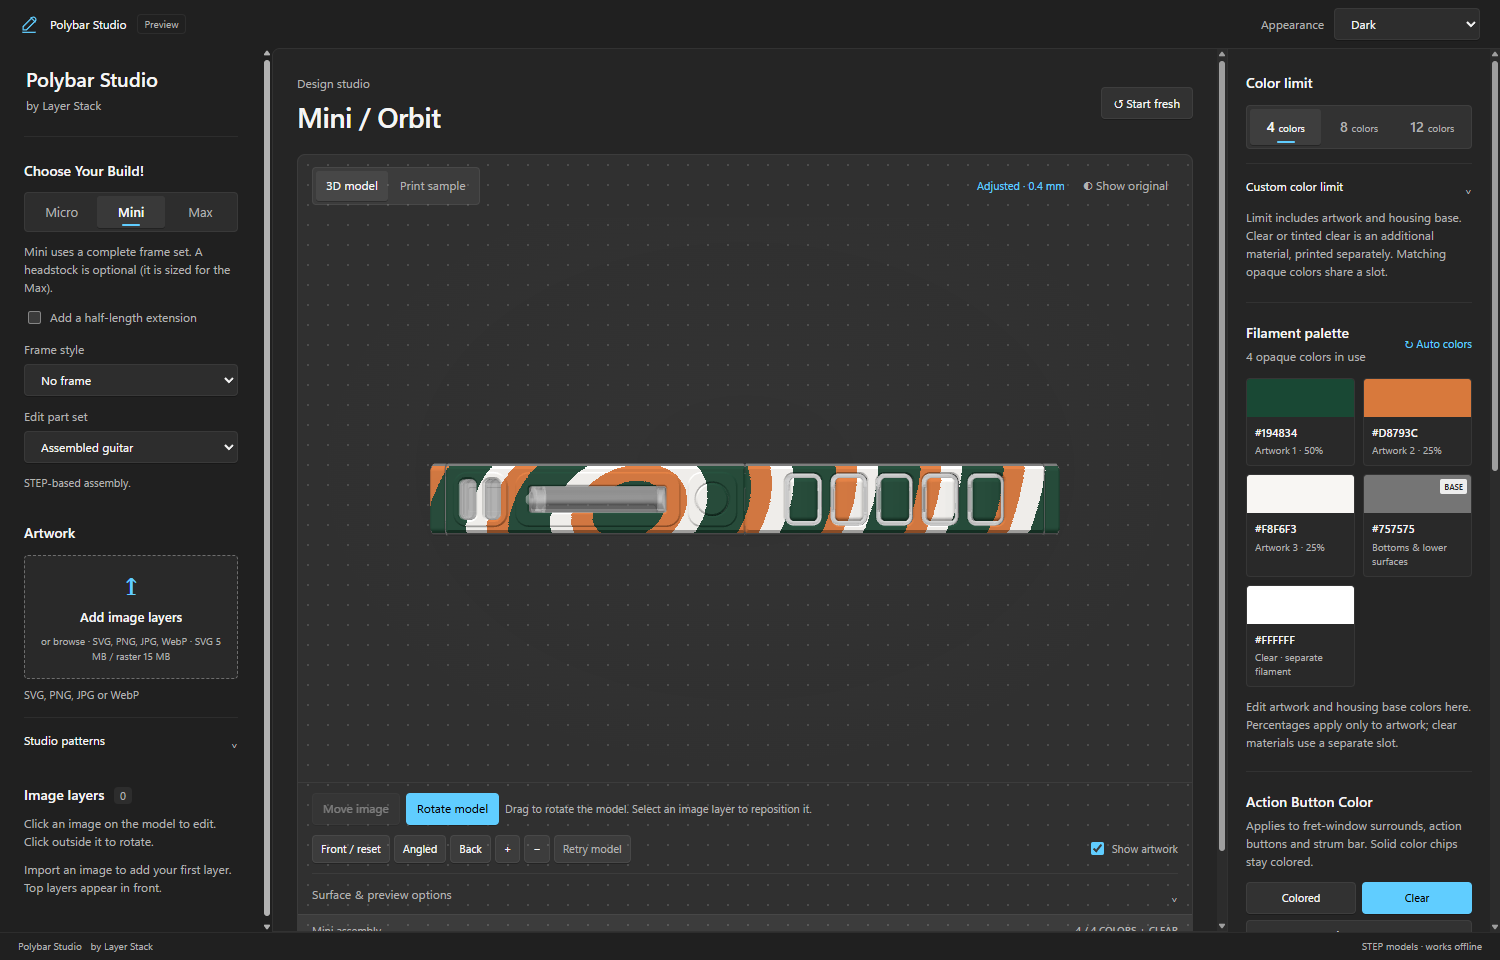
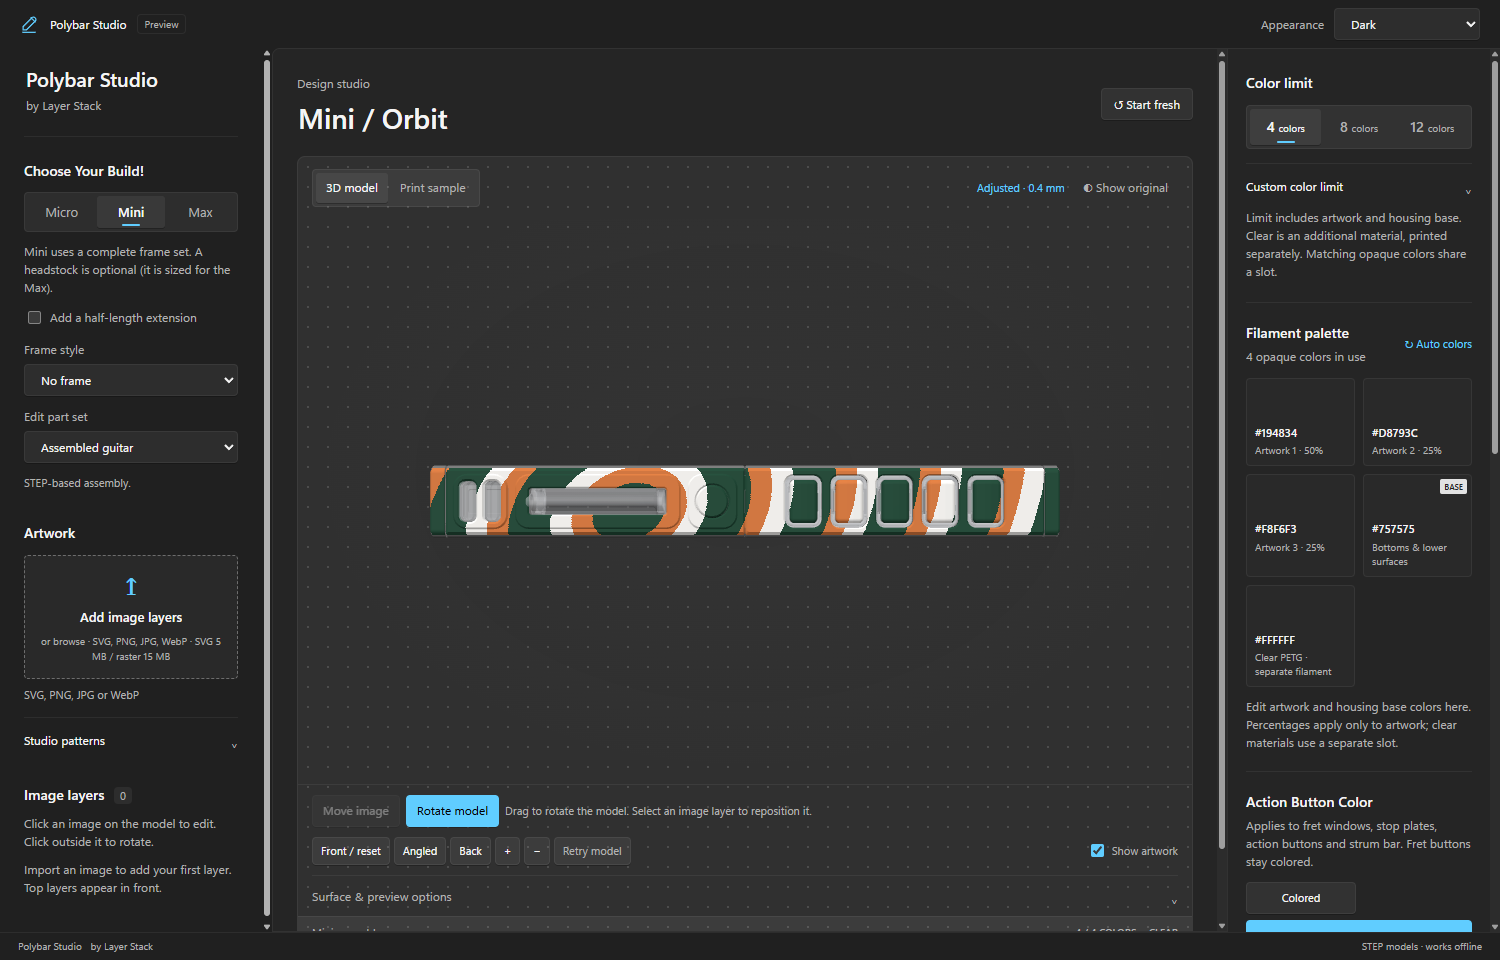
0.4.0: guide for frets, color presets, image tools, printability warning, kit parts; screenshots

diff --git a/README.md b/README.md
@@ -2,7 +2,7 @@
 
 Paint your Polybar Micro, Mini or Max, then get a print-ready Bambu Studio project for your Bambu Lab printer.
 
-[![Download for Windows](https://img.shields.io/badge/Download_for_Windows-Polybar_Studio_0.3.2-0078D4?style=for-the-badge&logo=windows)](https://github.com/3D-Printed-Controller-Systems/Polybar-Studio-Release/releases/latest/download/Polybar-Studio-Windows.exe)
+[![Download for Windows](https://img.shields.io/badge/Download_for_Windows-Polybar_Studio_0.4.0-0078D4?style=for-the-badge&logo=windows)](https://github.com/3D-Printed-Controller-Systems/Polybar-Studio-Release/releases/latest/download/Polybar-Studio-Windows.exe)
 
 Windows 10 or 11, 64-bit · about 50 MB · works offline · [all releases](https://github.com/3D-Printed-Controller-Systems/Polybar-Studio-Release/releases)
 
@@ -40,23 +40,29 @@ Drag in the preview to rotate, scroll to zoom, right-drag to pan. **Front / rese
 ### 2. Add your artwork
 
 - Drop images onto **Add image layers**, or click it to browse. SVG (up to 5 MB), PNG, JPG and WebP (up to 15 MB) work; you can stack up to 12 layers.
-- Click an image on the model to select it, then drag it into place. **Size** and **Rotation** sliders, **Center** and **Fit image** are under **Image layers**; **Done** finishes editing. Click outside the image to go back to rotating the model.
+- Click an image on the model to select it, then drag it into place. Clicking anywhere inside a selected image's box keeps it selected. **Size** and **Rotation** have sliders and number boxes you can type in; **Center**, **Fit image** and **Done** are below them. Click away from the image to go back to rotating the model.
+- **Keyboard** (while an image is selected): arrows move it; **Ctrl + ↑ / ↓** or **+ / −** resize; **Ctrl + ← / →** or **[ ]** rotate; hold **Shift** for bigger steps; **Ctrl + D** duplicates; **Delete** removes; **Esc** deselects.
+- Each layer shows a small preview. **⧉** duplicates a layer, **×** removes it.
+- **Repeat across the guitar** (under the selected image) tiles it as a pattern: set the spacing, and optionally offset every other row. Dragging any copy moves them all.
 - **Image background › Remove background** takes out a solid background around a logo. Raise **Tolerance** if some background stays.
 - A one-color image (a typical logo) gets a small **color dot** in its row under **Image layers**: click it to recolor the whole image.
+- **Name your design:** click the title above the preview (for example "Mini / Plain") and type. The name is used for the export files.
 - No image? Open **Studio patterns** for Waves, Checkers, Voltage or Orbit. **Keep pattern behind image layers** puts a pattern under your images.
 
 ### 3. Pick your colors
 
 - **Color limit** is how many filaments you'll use: 4, 8, 12, or a custom number. The artwork is reduced to fit, and the housing base color counts as one of them.
-- **Filament palette** shows each color and how much of the artwork uses it. Click a swatch to change it to the exact filament color you own. **Auto colors** rebuilds the palette from the artwork.
+- **Filament palette** shows each color and how much of the artwork uses it. Click a swatch to pick from Bambu Lab's own **PLA Basic** and **PLA Matte** spool colors, or choose **Custom color…**. **Auto colors** rebuilds the palette from the artwork.
 - **BASE** is the housing's bottom and lower surfaces (gray by default).
 
 ### 4. Action Button Color
 
-Choose how the five fret windows, two action buttons and the strum bar are printed:
+Choose how the fret windows, stop plates, action buttons and strum bar are printed:
 
 - **Colored:** painted with the artwork like everything else.
-- **Clear** or **Tinted clear:** the windows, stop plates, action buttons and strum bar print in clear PETG (PETG Translucent). This is an extra material on top of your color limit, and the fret color chips stay colored.
+- **Clear:** they print in clear PETG (PETG Translucent). This is an extra material on top of your color limit.
+
+**Paint the fret buttons** (on by default) paints the five frets with the artwork. Turn it off for frets in one solid color you pick (a smoother surface to press); that color counts toward your color limit.
 
 <picture>
   <source media="(prefers-color-scheme: dark)" srcset=".github/assets/clear-dark.png">
@@ -68,7 +74,8 @@ Choose how the five fret windows, two action buttons and the strum bar are print
 ### 5. Check printability
 
 - Set **Nozzle size** to the nozzle you print with (0.4 mm is standard).
-- Leave **Optimize artwork for printing** on: it thickens lines that are too thin to print and removes tiny specks. **Adjustment strength** sets how much (Gentle keeps more detail, Strong simplifies more).
+- Leave **Optimize artwork for printing** on: it makes sure every color is at least a printable width everywhere, thickening thin lines and clearing hairline gaps and specks. **Adjustment strength** sets that width: Gentle 1.5×, Balanced 2× and Strong 2.5× the nozzle (0.6 / 0.8 / 1.0 mm on a 0.4 mm nozzle). The status line says "Every color at least … mm wide ✓", or how much is still thinner.
+- Exporting with optimization off, or with anything still too thin, shows **Print at your own risk**: tick "I understand…" to continue.
 - **Show unadjusted artwork** compares before and after. **Print sample** (above the preview) shows the artwork flat, as printed.
 
 <picture>
@@ -83,6 +90,7 @@ Click **Export print plates**.
 - **Export type:** *Print plates · ZIP bundle* (the whole guitar) or a *60 × 32 mm color test tile* (a quick way to check your colors first).
 - **Printer:** every Bambu Lab printer (A1, A1 mini, A2L, H2C, H2D, H2D Pro, H2S, P1P, P1S, P2S, X1, X1 Carbon, X1E, X2D). The project uses Bambu's own profiles for that printer and the nozzle chosen under Printability. If a piece is too big for the printer (a Micro housing on an A1 mini), the export says so.
 - **Which pieces?** Everything, only the colored pieces, only the clear pieces, or pieces you tick yourself.
+- **Include the assembly parts** (on by default) adds the color plates, power slider and pivot pins (and on a Micro the PCB braces) in the housing base color.
 - Click **Prepare export**, wait for **Ready**, then **Save…** and choose where to put it.
 
 <picture>
@@ -111,6 +119,8 @@ In the slicer, pick your actual filament profiles, check that each color goes to
 ## Releases
 
 Each release lists the installer's SHA-256 and the [Development](https://github.com/3D-Printed-Controller-Systems/Polybar-Studio-Development) commit it was built from.
+
+**0.4.0**: printable-width guarantee with a "print at your own risk" warning; single-color frets; Bambu spool color presets; typed values, keyboard shortcuts, layer previews, duplicate and repeat for images; rename your design; the color plates, power slider and pivot pins in the export; "Tinted clear" removed.
 
 **0.3.2**: exports for dual-nozzle printers (H2D, H2D Pro, H2C, X2D) now slice (0.3.1's failed); half-length extension for any Mini or Max.
 
